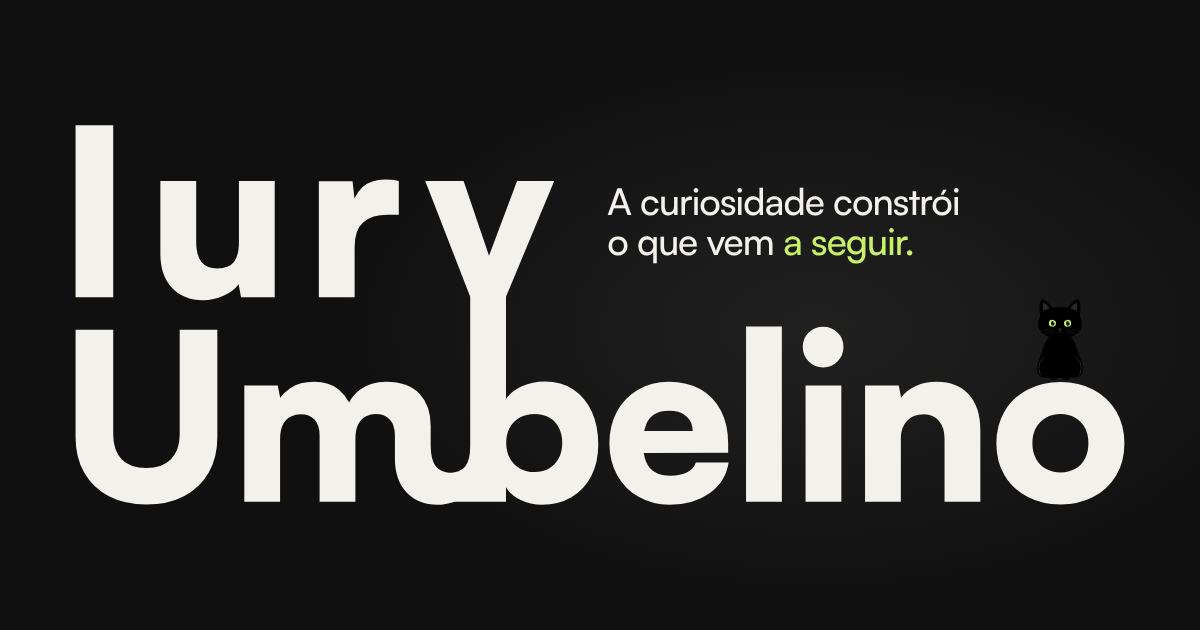
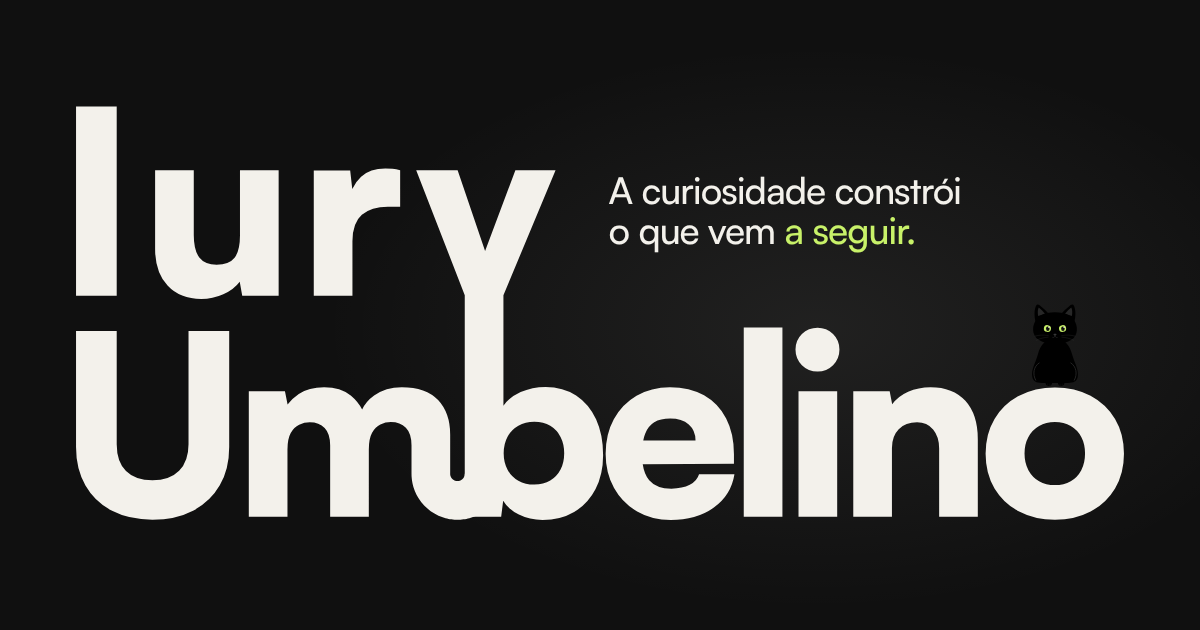
Hero: narrow half-ring from the m into the shared stem (original spacing), I at ascender height, selectable text layer over the mark
Claude-Session: https://claude.ai/code/session_01PGDuVFiiHY6UfqApSvCGWQ

diff --git a/src/components/hero/name-paths.ts b/src/components/hero/name-paths.ts
@@ -1,21 +1,21 @@
 // Generated by scripts/lettering.py — do not edit by hand.
-// Satoshi {'wght': 900.0}, line 880, tracking 73.9 / -14.0 (flush left); m→b +74.0 (u-turn gap 170.0); y cut at 2.23 (stem 154.0).
-export const viewBox = "53 0 4561.0 1681";
+// Satoshi {'wght': 900.0}, line 880, tracking 23.9 / -51.9 (flush left); y cut at 2.23 (stem 154.0).
+export const viewBox = "53 0 4221.55 1681";
 export const glyphs = [
   {
     "id": "l1-I",
     "line": 1,
-    "d": "M239.0 24.0V764.0H77.0V24.0Z"
+    "d": "M77.0 26.0V10.0H239.0V764.0H77.0V26.0Z"
   },
   {
     "id": "l1-u",
     "line": 1,
-    "d": "M779.8687133789062 264.0H933.8687133789062V764.0H788.8687133789062L778.8687133789062 708.0Q755.8687133789062 739.0 713.3687133789062 758.0Q670.8687133789062 777.0 625.8687133789062 777.0Q540.8687133789062 777.0 491.36871337890625 723.5Q441.86871337890625 670.0 441.86871337890625 578.0V264.0H595.8687133789062V522.0Q595.8687133789062 583.0 617.8687133789062 611.5Q639.8687133789062 640.0 686.8687133789062 640.0Q736.8687133789062 640.0 758.3687133789062 612.5Q779.8687133789062 585.0 779.8687133789062 524.0Z"
+    "d": "M729.9212646484375 264.0H883.9212646484375V764.0H738.9212646484375L728.9212646484375 708.0Q705.9212646484375 739.0 663.4212646484375 758.0Q620.9212646484375 777.0 575.9212646484375 777.0Q490.9212341308594 777.0 441.4212341308594 723.5Q391.9212341308594 670.0 391.9212341308594 578.0V264.0H545.9212646484375V522.0Q545.9212646484375 583.0 567.9212646484375 611.5Q589.9212646484375 640.0 636.9212646484375 640.0Q686.9212646484375 640.0 708.4212646484375 612.5Q729.9212646484375 585.0 729.9212646484375 524.0Z"
   },
   {
     "id": "l1-r",
     "line": 1,
-    "d": "M1467.7374267578125 264.0V409.0H1418.7374267578125Q1352.7374267578125 409.0 1315.2374267578125 441.0Q1277.7374267578125 473.0 1277.7374267578125 547.0V764.0H1123.7374267578125V265.0H1268.7374267578125L1277.01318359375 338.79248046875Q1289.3045654296875 310.494873046875 1312.2374267578125 289.5Q1347.7374267578125 257.0 1408.7374267578125 257.0Q1422.7374267578125 257.0 1437.2374267578125 258.5Q1451.7374267578125 260.0 1467.7374267578125 264.0Z"
+    "d": "M1367.842529296875 264.0V409.0H1318.842529296875Q1252.842529296875 409.0 1215.342529296875 441.0Q1177.842529296875 473.0 1177.842529296875 547.0V764.0H1023.8424682617188V265.0H1168.842529296875L1177.1182861328125 338.79248046875Q1189.40966796875 310.494873046875 1212.342529296875 289.5Q1247.842529296875 257.0 1308.842529296875 257.0Q1322.842529296875 257.0 1337.342529296875 258.5Q1351.842529296875 260.0 1367.842529296875 264.0Z"
   },
   {
     "id": "l2-U",
@@ -25,35 +25,37 @@ export const glyphs = [
   {
     "id": "l2-m",
     "line": 2,
-    "d": "M957.0 1644.0H803.0V1144.0H947.0L957.4033813476562 1196.62890625Q973.1224365234375 1174.9921875 1002.0 1155.0Q1041.0 1128.0 1103.0 1128.0Q1169.0 1128.0 1209.0 1161.0Q1236.8109130859375 1183.944091796875 1254.470458984375 1216.556396484375Q1270.0172119140625 1183.9442138671875 1302.0 1161.0Q1348.0 1128.0 1412.0 1128.0Q1509.0 1128.0 1557.0 1179.5Q1605.0 1231.0 1605.0 1317.0V1402.0Q1605.0 1463.0 1627.0 1491.5Q1649.0 1520.0 1696.0 1520.0Q1719.7021484375 1520.0 1737.0 1513.8201904296875V1630.8624267578125Q1730.058837890625 1634.6207275390625 1722.5 1638.0Q1680.0 1657.0 1635.0 1657.0Q1550.0 1657.0 1500.5 1603.5Q1451.0 1550.0 1451.0 1458.0V1360.0Q1451.0 1313.0 1428.5 1290.0Q1406.0 1267.0 1369.0 1267.0Q1347.0 1267.0 1327.0 1276.5Q1307.0 1286.0 1294.0 1309.5Q1281.0 1333.0 1281.0 1376.0V1644.0H1127.0V1360.0Q1127.0 1313.0 1105.0 1290.5Q1083.0 1268.0 1046.0 1268.0Q1024.0 1268.0 1003.5 1277.5Q983.0 1287.0 970.0 1310.5Q957.0 1334.0 957.0 1376.0Z"
+    "d": "M919.0787353515625 1644.0H765.0787353515625V1144.0H909.0787353515625L919.4821166992188 1196.62890625Q935.201171875 1174.9921875 964.0787353515625 1155.0Q1003.0787353515625 1128.0 1065.0787353515625 1128.0Q1131.0787353515625 1128.0 1171.0787353515625 1161.0Q1198.8896484375 1183.944091796875 1216.5491943359375 1216.556396484375Q1232.095947265625 1183.9442138671875 1264.0787353515625 1161.0Q1310.0787353515625 1128.0 1374.0787353515625 1128.0Q1471.0787353515625 1128.0 1519.0787353515625 1179.5Q1567.0787353515625 1231.0 1567.0787353515625 1317.0V1472.9605712890625L1567.0943603515625 1473.9107666015625L1567.1409912109375 1474.85986328125L1567.2186279296875 1475.8070068359375L1567.3271484375 1476.7509765625L1567.4666748046875 1477.6910400390625L1567.63671875 1478.6259765625L1567.83740234375 1479.5548095703125L1568.0682373046875 1480.4765625L1568.3292236328125 1481.3902587890625L1568.619873046875 1482.2950439453125L1568.9400634765625 1483.189697265625L1569.289306640625 1484.073486328125L1569.667236328125 1484.9454345703125L1570.073486328125 1485.804443359375L1570.5076904296875 1486.649658203125L1570.9693603515625 1487.4803466796875L1571.4578857421875 1488.29541015625L1571.9727783203125 1489.093994140625L1572.5135498046875 1489.8753662109375L1573.0797119140625 1490.638671875L1573.67041015625 1491.383056640625L1574.28515625 1492.107666015625L1574.92333984375 1492.811767578125L1575.584228515625 1493.4945068359375L1576.26708984375 1494.1553955078125L1576.97119140625 1494.7935791015625L1577.69580078125 1495.4083251953125L1578.4400634765625 1495.9991455078125L1579.203369140625 1496.565185546875L1579.9847412109375 1497.10595703125L1580.7833251953125 1497.6209716796875L1581.5985107421875 1498.1094970703125L1582.4290771484375 1498.571044921875L1583.2744140625 1499.0052490234375L1584.1334228515625 1499.4114990234375L1585.0052490234375 1499.78955078125L1585.8890380859375 1500.1387939453125L1586.78369140625 1500.4588623046875L1587.6884765625 1500.7496337890625L1588.6021728515625 1501.010498046875L1589.5240478515625 1501.241455078125L1590.452880859375 1501.4420166015625L1591.3878173828125 1501.6121826171875L1592.3277587890625 1501.7515869140625L1593.2718505859375 1501.860107421875L1594.2188720703125 1501.9378662109375L1595.16796875 1501.9844970703125L1596.1181640625 1502.0L1597.0682373046875 1501.9844970703125L1598.0174560546875 1501.9378662109375L1598.9644775390625 1501.860107421875L1599.9085693359375 1501.7515869140625L1600.8485107421875 1501.6121826171875L1601.783447265625 1501.4420166015625L1602.7122802734375 1501.241455078125L1603.634033203125 1501.010498046875L1604.5478515625 1500.7496337890625L1605.4525146484375 1500.4588623046875L1606.3472900390625 1500.1387939453125L1607.2310791015625 1499.78955078125L1608.1029052734375 1499.4114990234375L1608.9619140625 1499.0052490234375L1609.8072509765625 1498.571044921875L1610.6378173828125 1498.1094970703125L1611.452880859375 1497.6209716796875L1612.2515869140625 1497.10595703125L1613.032958984375 1496.565185546875L1613.7962646484375 1495.9991455078125L1614.54052734375 1495.4083251953125L1615.26513671875 1494.7935791015625L1615.96923828125 1494.1553955078125L1616.652099609375 1493.4945068359375L1617.31298828125 1492.811767578125L1617.951171875 1492.107666015625L1618.56591796875 1491.383056640625L1619.1566162109375 1490.638671875L1619.72265625 1489.8753662109375L1620.2635498046875 1489.093994140625L1620.7784423828125 1488.29541015625L1621.2669677734375 1487.4803466796875L1621.7286376953125 1486.649658203125L1622.1627197265625 1485.804443359375L1622.569091796875 1484.9454345703125L1622.947021484375 1484.073486328125L1623.2962646484375 1483.189697265625L1623.616455078125 1482.2950439453125L1623.9071044921875 1481.3902587890625L1624.1680908203125 1480.4765625L1624.39892578125 1479.5548095703125L1624.5994873046875 1478.6259765625L1624.7696533203125 1477.6910400390625L1624.9090576171875 1476.7509765625L1625.0177001953125 1475.8070068359375L1625.0953369140625 1474.85986328125L1625.1419677734375 1473.9107666015625L1625.157470703125 1472.9605712890625H1779.157470703125L1779.0595703125 1478.949462890625L1778.765625 1484.9320068359375L1778.276123046875 1490.901611328125L1777.591552734375 1496.85205078125L1776.7127685546875 1502.77685546875L1775.6405029296875 1508.6697998046875L1774.3759765625 1514.5245361328125L1772.920654296875 1520.334716796875L1771.27587890625 1526.0941162109375L1769.443603515625 1531.7967529296875L1767.42578125 1537.436279296875L1765.2244873046875 1543.0067138671875L1762.842041015625 1548.502197265625L1760.2811279296875 1553.9168701171875L1757.54443359375 1559.2447509765625L1754.6348876953125 1564.4803466796875L1751.5555419921875 1569.6177978515625L1748.309814453125 1574.65185546875L1744.901123046875 1579.5770263671875L1741.3330078125 1584.387939453125L1737.6094970703125 1589.07958984375L1733.7344970703125 1593.6468505859375L1729.7120361328125 1598.0849609375L1725.5465087890625 1602.3890380859375L1721.242431640625 1606.554443359375L1716.804443359375 1610.576904296875L1712.237060546875 1614.4520263671875L1707.54541015625 1618.175537109375L1702.7344970703125 1621.7435302734375L1697.809326171875 1625.15234375L1692.775390625 1628.3980712890625L1687.6378173828125 1631.4774169921875L1682.40234375 1634.386962890625L1677.0743408203125 1637.1236572265625L1671.6597900390625 1639.6845703125L1666.164306640625 1642.0670166015625L1660.59375 1644.268310546875L1654.9542236328125 1646.2861328125L1649.251708984375 1648.118408203125L1643.4921875 1649.7630615234375L1637.6820068359375 1651.218505859375L1631.827392578125 1652.48291015625L1625.9344482421875 1653.55517578125L1620.009521484375 1654.43408203125L1614.0592041015625 1655.11865234375L1608.0894775390625 1655.608154296875L1602.1070556640625 1655.9019775390625L1596.1181640625 1656.0L1590.1292724609375 1655.9019775390625L1584.1468505859375 1655.608154296875L1578.1771240234375 1655.11865234375L1572.2266845703125 1654.43408203125L1566.3018798828125 1653.55517578125L1560.408935546875 1652.48291015625L1554.55419921875 1651.218505859375L1548.7440185546875 1649.7630615234375L1542.984619140625 1648.118408203125L1537.2821044921875 1646.2861328125L1531.642578125 1644.268310546875L1526.072021484375 1642.0670166015625L1520.5765380859375 1639.6845703125L1515.161865234375 1637.1236572265625L1509.833984375 1634.386962890625L1504.5985107421875 1631.4774169921875L1499.4609375 1628.3980712890625L1494.4268798828125 1625.15234375L1489.5018310546875 1621.7435302734375L1484.6907958984375 1618.175537109375L1479.9991455078125 1614.4520263671875L1475.431884765625 1610.576904296875L1470.993896484375 1606.554443359375L1466.6898193359375 1602.3890380859375L1462.5242919921875 1598.0849609375L1458.5018310546875 1593.6468505859375L1454.6268310546875 1589.07958984375L1450.9031982421875 1584.387939453125L1447.335205078125 1579.5770263671875L1443.926513671875 1574.65185546875L1440.6806640625 1569.6177978515625L1437.6014404296875 1564.4803466796875L1434.6917724609375 1559.2447509765625L1431.955078125 1553.9168701171875L1429.3941650390625 1548.502197265625L1427.0118408203125 1543.0067138671875L1424.810546875 1537.436279296875L1422.7926025390625 1531.7967529296875L1420.9603271484375 1526.0941162109375L1419.315673828125 1520.334716796875L1417.8603515625 1514.5245361328125L1416.5958251953125 1508.6697998046875L1415.5235595703125 1502.77685546875L1414.6446533203125 1496.85205078125L1413.960205078125 1490.901611328125L1413.470703125 1484.9320068359375L1413.1767578125 1478.949462890625L1413.1114501953125 1474.9605712890625H1413.0787353515625V1360.0Q1413.0787353515625 1313.0 1390.5787353515625 1290.0Q1368.0787353515625 1267.0 1331.0787353515625 1267.0Q1309.0787353515625 1267.0 1289.0787353515625 1276.5Q1269.0787353515625 1286.0 1256.0787353515625 1309.5Q1243.0787353515625 1333.0 1243.0787353515625 1376.0V1644.0H1089.0787353515625V1360.0Q1089.0787353515625 1313.0 1067.0787353515625 1290.5Q1045.0787353515625 1268.0 1008.0787353515625 1268.0Q986.0787353515625 1268.0 965.5787353515625 1277.5Q945.0787353515625 1287.0 932.0787353515625 1310.5Q919.0787353515625 1334.0 919.0787353515625 1376.0Z"
   },
   {
     "id": "l2-e",
     "line": 2,
-    "d": "M2633.0 1657.0Q2558.0 1657.0 2499.5 1623.0Q2441.0 1589.0 2407.5 1529.5Q2374.0 1470.0 2374.0 1393.0Q2374.0 1315.0 2406.5 1255.5Q2439.0 1196.0 2497.0 1162.0Q2555.0 1128.0 2630.0 1128.0Q2709.0 1128.0 2766.0 1160.5Q2823.0 1193.0 2854.0 1252.5Q2885.0 1312.0 2885.0 1394.0V1433.0L2521.70849609375 1434.689697265625Q2527.785888671875 1475.3272705078125 2547.5 1498.5Q2576.0 1532.0 2636.0 1532.0Q2680.0 1532.0 2709.0 1517.0Q2738.0 1502.0 2746.0 1475.0H2887.0Q2874.0 1558.0 2805.0 1607.5Q2736.0 1657.0 2633.0 1657.0ZM2523.803955078125 1340.0H2732.0Q2732.0 1300.0 2705.0 1276.5Q2678.0 1253.0 2631.0 1253.0Q2592.0 1253.0 2567.5 1268.0Q2543.0 1283.0 2531.0 1314.5Q2526.5927734375 1326.0692138671875 2523.803955078125 1340.0Z"
+    "d": "M2445.236328125 1657.0Q2370.236328125 1657.0 2311.736328125 1623.0Q2253.236328125 1589.0 2219.736328125 1529.5Q2186.236328125 1470.0 2186.236328125 1393.0Q2186.236328125 1315.0 2218.736328125 1255.5Q2251.236328125 1196.0 2309.236328125 1162.0Q2367.236328125 1128.0 2442.236328125 1128.0Q2521.236328125 1128.0 2578.236328125 1160.5Q2635.236328125 1193.0 2666.236328125 1252.5Q2697.236328125 1312.0 2697.236328125 1394.0V1433.0L2333.94482421875 1434.689697265625Q2340.022216796875 1475.3272705078125 2359.736328125 1498.5Q2388.236328125 1532.0 2448.236328125 1532.0Q2492.236328125 1532.0 2521.236328125 1517.0Q2550.236328125 1502.0 2558.236328125 1475.0H2699.236328125Q2686.236328125 1558.0 2617.236328125 1607.5Q2548.236328125 1657.0 2445.236328125 1657.0ZM2336.040283203125 1340.0H2544.236328125Q2544.236328125 1300.0 2517.236328125 1276.5Q2490.236328125 1253.0 2443.236328125 1253.0Q2404.236328125 1253.0 2379.736328125 1268.0Q2355.236328125 1283.0 2343.236328125 1314.5Q2338.8291015625 1326.0692138671875 2336.040283203125 1340.0Z"
   },
   {
     "id": "l2-l",
     "line": 2,
-    "d": "M3116.0 1644.0H2962.0V890.0H3116.0Z"
+    "d": "M2890.31494140625 1644.0H2736.31494140625V890.0H2890.31494140625Z"
   },
   {
     "id": "l2-i",
     "line": 2,
-    "d": "M3218.0 1644.0V1144.0H3372.0V1644.0ZM3294.0 1066.0Q3257.0 1066.0 3231.5 1040.5Q3206.0 1015.0 3206.0 978.0Q3206.0 941.0 3231.5 916.0Q3257.0 891.0 3294.0 891.0Q3330.0 891.0 3355.5 916.0Q3381.0 941.0 3381.0 978.0Q3381.0 1015.0 3355.5 1040.5Q3330.0 1066.0 3294.0 1066.0Z"
+    "d": "M2954.393798828125 1644.0V1144.0H3108.393798828125V1644.0ZM3030.393798828125 1066.0Q2993.393798828125 1066.0 2967.893798828125 1040.5Q2942.393798828125 1015.0 2942.393798828125 978.0Q2942.393798828125 941.0 2967.893798828125 916.0Q2993.393798828125 891.0 3030.393798828125 891.0Q3066.393798828125 891.0 3091.893798828125 916.0Q3117.393798828125 941.0 3117.393798828125 978.0Q3117.393798828125 1015.0 3091.893798828125 1040.5Q3066.393798828125 1066.0 3030.393798828125 1066.0Z"
   },
   {
     "id": "l2-n",
     "line": 2,
-    "d": "M3628.0 1644.0H3474.0V1144.0H3619.0L3629.0 1196.0Q3652.0 1164.0 3692.5 1146.0Q3733.0 1128.0 3782.0 1128.0Q3871.0 1128.0 3920.5 1182.5Q3970.0 1237.0 3970.0 1335.0V1644.0H3816.0V1372.0Q3816.0 1325.0 3792.0 1296.5Q3768.0 1268.0 3728.0 1268.0Q3682.0 1268.0 3655.0 1295.5Q3628.0 1323.0 3628.0 1370.0Z"
+    "d": "M3326.47265625 1644.0H3172.47265625V1144.0H3317.47265625L3327.47265625 1196.0Q3350.47265625 1164.0 3390.97265625 1146.0Q3431.47265625 1128.0 3480.47265625 1128.0Q3569.47265625 1128.0 3618.97265625 1182.5Q3668.47265625 1237.0 3668.47265625 1335.0V1644.0H3514.47265625V1372.0Q3514.47265625 1325.0 3490.47265625 1296.5Q3466.47265625 1268.0 3426.47265625 1268.0Q3380.47265625 1268.0 3353.47265625 1295.5Q3326.47265625 1323.0 3326.47265625 1370.0Z"
   },
   {
     "id": "l2-o",
     "line": 2,
-    "d": "M4039.0 1393.0Q4039.0 1314.0 4074.5 1254.5Q4110.0 1195.0 4172.5 1162.0Q4235.0 1129.0 4315.0 1129.0Q4395.0 1129.0 4457.0 1162.0Q4519.0 1195.0 4554.5 1254.5Q4590.0 1314.0 4590.0 1393.0Q4590.0 1472.0 4554.5 1531.0Q4519.0 1590.0 4457.0 1623.0Q4395.0 1656.0 4315.0 1656.0Q4235.0 1656.0 4172.5 1623.0Q4110.0 1590.0 4074.5 1531.0Q4039.0 1472.0 4039.0 1393.0ZM4194.0 1392.0Q4194.0 1430.0 4209.5 1458.5Q4225.0 1487.0 4252.0 1502.5Q4279.0 1518.0 4315.0 1518.0Q4351.0 1518.0 4378.0 1502.5Q4405.0 1487.0 4420.0 1458.5Q4435.0 1430.0 4435.0 1392.0Q4435.0 1354.0 4420.0 1326.0Q4405.0 1298.0 4378.0 1282.5Q4351.0 1267.0 4315.0 1267.0Q4279.0 1267.0 4252.0 1282.5Q4225.0 1298.0 4209.5 1326.0Q4194.0 1354.0 4194.0 1392.0Z"
+    "d": "M3699.55126953125 1393.0Q3699.55126953125 1314.0 3735.05126953125 1254.5Q3770.55126953125 1195.0 3833.05126953125 1162.0Q3895.55126953125 1129.0 3975.55126953125 1129.0Q4055.55126953125 1129.0 4117.55126953125 1162.0Q4179.55126953125 1195.0 4215.05126953125 1254.5Q4250.55126953125 1314.0 4250.55126953125 1393.0Q4250.55126953125 1472.0 4215.05126953125 1531.0Q4179.55126953125 1590.0 4117.55126953125 1623.0Q4055.55126953125 1656.0 3975.55126953125 1656.0Q3895.55126953125 1656.0 3833.05126953125 1623.0Q3770.55126953125 1590.0 3735.05126953125 1531.0Q3699.55126953125 1472.0 3699.55126953125 1393.0ZM3854.55126953125 1392.0Q3854.55126953125 1430.0 3870.05126953125 1458.5Q3885.55126953125 1487.0 3912.55126953125 1502.5Q3939.55126953125 1518.0 3975.55126953125 1518.0Q4011.55126953125 1518.0 4038.55126953125 1502.5Q4065.55126953125 1487.0 4080.55126953125 1458.5Q4095.55126953125 1430.0 4095.55126953125 1392.0Q4095.55126953125 1354.0 4080.55126953125 1326.0Q4065.55126953125 1298.0 4038.55126953125 1282.5Q4011.55126953125 1267.0 3975.55126953125 1267.0Q3939.55126953125 1267.0 3912.55126953125 1282.5Q3885.55126953125 1298.0 3870.05126953125 1326.0Q3854.55126953125 1354.0 3854.55126953125 1392.0Z"
   }
 ] as const;
-/** The y→b ligature: one outline, the y's V running into the b's stem, and the m's last leg turning into it along the bottom (a u). */
-export const ligature = {"id": "yb", "d": "M1746.606201171875 264.0 1855.9884033203125 585.4495849609375 1976.606201171875 264.0H2136.606201171875L1929.0018310546875 761.7600708007812V914.0L1929.0 1202.0Q1952.0 1168.0 1997.5 1147.5Q2043.0 1127.0 2097.0 1127.0Q2167.0 1127.0 2218.5 1161.0Q2270.0 1195.0 2298.0 1256.0Q2326.0 1317.0 2326.0 1399.0Q2326.0 1476.0 2295.5 1534.5Q2265.0 1593.0 2210.5 1625.0Q2156.0 1657.0 2085.0 1657.0Q2033.0 1657.0 1990.5 1635.5Q1949.0479736328125 1614.5301513671875 1929.0 1581.669189453125V1644.0H1693.73486328125Q1668.78955078125 1653.1318359375 1643.0 1655.8489990234375V1513.5732421875Q1659.681396484375 1520.0 1682.0 1520.0Q1732.0 1520.0 1753.5 1492.5Q1775.0 1465.0 1775.0 1404.0V914.0L1774.9981689453125 761.7599487304688L1581.606201171875 264.0ZM1930.0 1391.0Q1930.0 1428.0 1945.5 1456.5Q1961.0 1485.0 1988.5 1500.5Q2016.0 1516.0 2052.0 1516.0Q2089.0 1516.0 2115.5 1500.0Q2142.0 1484.0 2156.5 1456.0Q2171.0 1428.0 2171.0 1391.0Q2171.0 1354.0 2156.5 1326.0Q2142.0 1298.0 2115.5 1282.0Q2089.0 1266.0 2052.0 1266.0Q2016.0 1266.0 1988.5 1281.5Q1961.0 1297.0 1945.5 1325.0Q1930.0 1353.0 1930.0 1391.0Z"} as const;
+/** The y→b ligature: one outline, the y's V running into the b's stem (the m's half ring turns into it at the base). */
+export const ligature = {"id": "yb", "d": "M1596.763671875 264.0 1706.1458740234375 585.4495849609375 1826.763671875 264.0H1986.763671875L1779.159423828125 761.759765625V914.0H1779.157470703125V1202.0Q1802.157470703125 1168.0 1847.657470703125 1147.5Q1893.157470703125 1127.0 1947.157470703125 1127.0Q2017.157470703125 1127.0 2068.657470703125 1161.0Q2120.157470703125 1195.0 2148.157470703125 1256.0Q2176.157470703125 1317.0 2176.157470703125 1399.0Q2176.157470703125 1476.0 2145.657470703125 1534.5Q2115.157470703125 1593.0 2060.657470703125 1625.0Q2006.157470703125 1657.0 1935.157470703125 1657.0Q1883.157470703125 1657.0 1840.657470703125 1635.5Q1798.157470703125 1614.0 1778.157470703125 1580.0L1770.157470703125 1644.0H1625.157470703125V914.0H1625.15576171875V761.76025390625L1431.763671875 264.0ZM1780.157470703125 1391.0Q1780.157470703125 1428.0 1795.657470703125 1456.5Q1811.157470703125 1485.0 1838.657470703125 1500.5Q1866.157470703125 1516.0 1902.157470703125 1516.0Q1939.157470703125 1516.0 1965.657470703125 1500.0Q1992.157470703125 1484.0 2006.657470703125 1456.0Q2021.157470703125 1428.0 2021.157470703125 1391.0Q2021.157470703125 1354.0 2006.657470703125 1326.0Q1992.157470703125 1298.0 1965.657470703125 1282.0Q1939.157470703125 1266.0 1902.157470703125 1266.0Q1866.157470703125 1266.0 1838.657470703125 1281.5Q1811.157470703125 1297.0 1795.657470703125 1325.0Q1780.157470703125 1353.0 1780.157470703125 1391.0Z"} as const;
 /** Positions in % of the mark (x of width, y of height). */
-export const anchors = {"line1Right": 45.68, "xHeight1": 15.7, "oCenter": 93.43, "oRight": 99.47, "oTop": 67.16, "nCenter": 80.44, "stem": [37.75, 41.13]} as const;
+export const anchors = {"line1Right": 45.81, "xHeight1": 15.7, "oCenter": 92.91, "oRight": 99.43, "oTop": 67.16, "nCenter": 79.77, "stem": [37.24, 40.89]} as const;
+/** The selectable text layer: font size in % of the mark's width, each line's box (line-height 1) in %. */
+export const textLayer = {"fontSize": 23.688, "lines": [{"text": "Iury", "left": -1.26, "top": -7.2, "tracking": 0.0239}, {"text": "Umbelino", "left": -1.14, "top": 45.15, "tracking": -0.0519}]} as const;

diff --git a/src/components/sections/Hero.tsx b/src/components/sections/Hero.tsx
@@ -5,7 +5,7 @@ import { HeroPortrait, HeroSocial } from "@/components/hero/HeroPortrait";
 import { HeroSpotlight } from "@/components/hero/HeroSpotlight";
 import { NameMark } from "@/components/hero/NameMark";
 import type { Locale } from "@/i18n/routing";
-import { anchors, viewBox } from "@/components/hero/name-paths";
+import { anchors, textLayer, viewBox } from "@/components/hero/name-paths";
 import { HeroMotion } from "./HeroMotion";
 
 /**
@@ -64,9 +64,30 @@ export async function Hero() {
         <div style={markVars} className="flex w-full flex-1 flex-col gap-12 md:mx-auto md:w-[clamp(50%,calc((100svh-24rem)*var(--mark-ratio)),100%)] md:gap-10">
         <div className="flex flex-col gap-5 md:flex-1 md:justify-center">
           <div data-hero-mark className="@container relative w-full">
-            <h1 id="hero-name" className="text-paper">
-              <span className="sr-only">Iury Umbelino</span>
-              <NameMark className="block h-auto w-full" />
+            {/*
+              The drawn mark is decoration (aria-hidden, no pointer); the h1's real
+              text lies over it, transparent but selectable, each line set where the
+              drawing puts it (textLayer, exported by scripts/lettering.py). Dragging
+              across the name selects and copies "Iury Umbelino"; screen readers and
+              search engines read the same text.
+            */}
+            <h1 id="hero-name" className="relative text-paper">
+              <NameMark className="pointer-events-none block h-auto w-full select-none" />
+              <span
+                className="absolute inset-0 font-display leading-none font-black whitespace-pre text-transparent select-text selection:bg-signal/30 selection:text-transparent"
+                style={{ fontSize: `${textLayer.fontSize}cqw` }}
+              >
+                {textLayer.lines.map((l, i) => (
+                  <span
+                    key={l.text}
+                    className="absolute block"
+                    style={{ left: `${l.left}%`, top: `${l.top}%`, letterSpacing: `${l.tracking}em` }}
+                  >
+                    {l.text}
+                    {i === 0 ? " " : null}
+                  </span>
+                ))}
+              </span>
             </h1>
             {/*
               Mobile: the statement is its own row under the name, with the cat at the

diff --git a/scripts/lettering.py b/scripts/lettering.py
@@ -8,8 +8,14 @@ exactly as wide as the b's stem (found by bisection on the outline, just under
 the baseline); from that cut a vertical stem of the same width runs straight
 down onto the b's stem axis. y-top ∪ stem ∪ b is one outline (boolean union),
 so there is no seam, step or double edge, and the y still reads as a y: a Y-like
-fork whose foot is the b. At the bottom, the m's last leg turns along the baseline
-like a u and rises into that stem (Satoshi's own u, cut in two; see "u-turn").
+fork whose foot is the b.
+
+At the bottom (Iury's reference, 2026-11-13) the m's last leg does not stop at the
+baseline: it turns in a half ring (the leg's own width all the way round) and rises
+into that same stem, leaving a narrow slit with a round bottom between them. The
+spacing is the font's: the slit is the gap the m and the b already have. The b is
+untouched, so its stem meets its bowl with Satoshi's own fine notch at the base.
+The I is raised to the ascender height (the l, the b and the i's dot).
 
 The license (ITF Free Font License) allows wordmarks made with the font; the
 font file itself is never modified or committed: this script reads it in place
@@ -50,16 +56,13 @@ hbfont = hb.Font(hb.Face(hb.Blob.from_file_path(str(SRC))))
 hbfont.set_variations(AXES)
 
 
-def shape(text, track=TRACK, kern=None):
-    """Glyph names and pen x positions. `kern` = (index, units): extra space before that glyph."""
+def shape(text, track=TRACK):
     buf = hb.Buffer()
     buf.add_str(text)
     buf.guess_segment_properties()
     hb.shape(hbfont, buf, {"kern": True, "liga": False})
     x, out = 0, []
-    for i, (info, pos) in enumerate(zip(buf.glyph_infos, buf.glyph_positions)):
-        if kern and i == kern[0]:
-            x += kern[1]
+    for info, pos in zip(buf.glyph_infos, buf.glyph_positions):
         out.append((font.getGlyphName(info.codepoint), x + pos.x_offset))
         x += pos.x_advance + track
     return out
@@ -122,53 +125,22 @@ Y_AXIS = (CUT_L + CUT_R) / 2
 # Line 2 shifts so the b stem sits on the y's axis.
 shift = (y_x + Y_AXIS) - (b_x + (B_STEM[0] + B_STEM[1]) / 2)
 
-# The u-turn (Iury, 2026-11-13, after his reference): the m's last leg does not
-# stop at the baseline; it turns along the bottom like a "u" and rises into the
-# shared stem. The connector is Satoshi's own u, cut in two at its centre: the
-# left half sits on the m's leg, the right half on the b's stem (the u's stems are
-# exactly as wide as both). For the bowl not to look pinched, the gap between the
-# m's leg and the stem is opened to TURN_GAP (default: the m's own counters).
-m = cmap[ord("m")]
-u = cmap[ord("u")]
-M_LEG = span_at(m, 250, bounds(m)[2] - 40)  # the m's right leg
-U_L = span_at(u, 250, bounds(u)[0] + 40)  # the u's left stem
-U_R = span_at(u, 250, bounds(u)[2] - 40)  # the u's right stem
-M_COUNTER = M_LEG[0] - span_at(m, 250, (bounds(m)[0] + bounds(m)[2]) / 2)[1]
-TURN_GAP = float(os.environ.get("TURN_GAP", M_COUNTER))
-assert abs((M_LEG[1] - M_LEG[0]) - B_W) < 1 and abs((U_L[1] - U_L[0]) - B_W) < 1, (M_LEG, U_L, B_W)
-
-# Flush left: the stem alignment (and the opened m→b gap) push "Umbelino" left of
-# "Iury" (D units). Close it in the spacing, split between the lines so neither
-# looks re-tracked on its own: line 1 opens (3 gaps before the y), line 2 tightens
-# (2 gaps before the b). Each unit of line-1 tracking moves the U right by 3, each
-# unit removed from line 2 by 2. The kern and the tracking depend on each other,
-# so they are solved together (a few fixed-point rounds).
-SPLIT = float(os.environ.get("ALIGN_SPLIT", 1.0))  # share of D taken by line 1 (1.0: all of it, as in Iury's reference)
+# Flush left: the stem alignment pushes "Umbelino" left of "Iury" (D units).
+# Close the gap in the spacing, split between the lines so neither looks
+# re-tracked on its own: line 1 opens (3 gaps before the y), line 2 tightens
+# (2 gaps before the b). Each unit of line-1 tracking moves the U right by 3,
+# each unit removed from line 2 by 2.
+SPLIT = float(os.environ.get("ALIGN_SPLIT", 0.6))  # share of D taken by line 1
 left = lambda line, dx=0: line[0][1] + dx + bounds(line[0][0])[0]
-TRACK1 = TRACK2 = TRACK
-K = 0.0
-for _ in range(40):
-    line1 = shape("Iury", TRACK1)
-    line2 = shape("Umbelino", TRACK2, (2, K))
-    _, y_x = line1[3]
-    _, m_x = line2[1]
-    _, b_x = line2[2]
-    gap = (b_x + B_STEM[0]) - (m_x + M_LEG[1])
-    K += TURN_GAP - gap
-    line2 = shape("Umbelino", TRACK2, (2, K))
-    _, b_x = line2[2]
-    shift = (y_x + Y_AXIS) - (b_x + (B_STEM[0] + B_STEM[1]) / 2)
-    D = left(line1) - left(line2, shift)
-    TRACK1 += SPLIT * D / 3
-    TRACK2 -= (1 - SPLIT) * D / 2
+D = left(line1) - left(line2, shift)
+TRACK1 = TRACK + SPLIT * D / 3
+TRACK2 = TRACK - (1 - SPLIT) * D / 2
 line1 = shape("Iury", TRACK1)
-line2 = shape("Umbelino", TRACK2, (2, K))
+line2 = shape("Umbelino", TRACK2)
 _, y_x = line1[3]
-_, m_x = line2[1]
 _, b_x = line2[2]
 shift = (y_x + Y_AXIS) - (b_x + (B_STEM[0] + B_STEM[1]) / 2)
 assert abs(left(line1) - left(line2, shift)) < 0.5, (left(line1), left(line2, shift))
-assert abs((b_x + B_STEM[0]) - (m_x + M_LEG[1]) - TURN_GAP) < 0.5
 
 asc = max(bounds(cmap[ord(c)])[3] for c in "Iury")
 A = asc + PAD  # line 1 baseline (SVG y)
@@ -191,14 +163,6 @@ def path(name, dx, base):
     return to_svg(pathops.simplify(p))
 
 
-glyphs = []
-for ch, (name, x) in zip("Iury", line1):
-    if ch != "y":
-        glyphs.append({"id": f"l1-{ch}", "line": 1, "d": path(name, x, A)})
-TURN_H = 260  # font units: below this, the m's leg and the b's stem become the u-turn
-TURN_OVER = 24  # the u reaches this far up into the leg / stem (no seam)
-
-
 def rect(x0, x1, y0, y1, T):
     """A rectangle given in font units, through the transform T."""
     r = pathops.Path()
@@ -207,40 +171,62 @@ def rect(x0, x1, y0, y1, T):
     return r
 
 
-U_MID = (U_L[1] + U_R[0]) / 2  # centre of the u's counter
-# Bottom of the u's counter (the inner edge of its bowl), on the counter's centre line.
-_g = pathops.Path()
-gs[u].draw(_g.getPen())
-_col = pathops.Path()
-_cp = _col.getPen()
-_cp.moveTo((U_MID - 0.01, -500)); _cp.lineTo((U_MID + 0.01, -500)); _cp.lineTo((U_MID + 0.01, 1500)); _cp.lineTo((U_MID - 0.01, 1500)); _cp.closePath()
-U_INNER = min(c.bounds[3] for c in pathops.op(_g, _col, pathops.PathOp.INTERSECTION).contours)
+def half_ring(cx, cy, r_in, r_out, T, steps=96):
+    """The lower half of a ring (font units, y up), through T."""
+    import math
+
+    pts = [(cx + r_out * math.cos(math.pi + math.pi * i / steps), cy + r_out * math.sin(math.pi + math.pi * i / steps)) for i in range(steps + 1)]
+    pts += [(cx + r_in * math.cos(-math.pi * i / steps), cy + r_in * math.sin(-math.pi * i / steps)) for i in range(steps + 1)]
+    r = pathops.Path()
+    pen = TransformPen(r.getPen(), T)
+    pen.moveTo(pts[0])
+    for pt in pts[1:]:
+        pen.lineTo(pt)
+    pen.closePath()
+    return r
 
 
-def u_half(side, dx):
-    """One half of the u, cut at its counter's centre (with an overlap), placed at dx.
+ASC = bounds(cmap[ord("l")])[3]  # ascender: the l, the b, the i's dot
+m = cmap[ord("m")]
+M_LEG = span_at(m, 250, bounds(m)[2] - 40)  # the m's right leg
+assert abs((M_LEG[1] - M_LEG[0]) - B_W) < 1, (M_LEG, B_W)
+OVERSHOOT = -bounds(cmap[ord("u")])[1]  # round bottoms dip this far under the baseline
 
-    The right half also loses the notch Satoshi's u has where its bowl meets the
-    right stem: the area under the bowl, from the centre to the stem, is filled up
-    to the counter's bottom, so the bowl runs into the stem without a step."""
-    Tu = (1, 0, 0, -1, dx, B)
-    pu = pathops.Path()
-    gs[u].draw(TransformPen(pu.getPen(), Tu))
-    x0, x1 = (-500, U_MID + 40) if side == "left" else (U_MID - 40, 1500)
-    half = pathops.op(pu, rect(x0, x1, -200, TURN_H + TURN_OVER, Tu), pathops.PathOp.INTERSECTION)
-    if side == "right":
-        half = pathops.op(half, rect(U_MID, U_R[0] + 60, 0, U_INNER - 1, Tu), pathops.PathOp.UNION)
-    return half
-
+glyphs = []
+for ch, (name, x) in zip("Iury", line1):
+    if ch == "I":
+        # Satoshi's I is a plain bar, 14 units under the ascender: raise its top.
+        x0, _, x1, top = bounds(name)
+        T1 = (1, 0, 0, -1, x, A)
+        bar = pathops.Path()
+        gs[name].draw(TransformPen(bar.getPen(), T1))
+        bar = pathops.op(bar, rect(x0, x1, top - 2, ASC, T1), pathops.PathOp.UNION)
+        glyphs.append({"id": "l1-I", "line": 1, "d": to_svg(pathops.simplify(bar))})
+    elif ch != "y":
+        glyphs.append({"id": f"l1-{ch}", "line": 1, "d": path(name, x, A)})
+# The turn, in line-2 coordinates: the slit is the gap the font already leaves
+# between the m's leg and the b's stem; the ring's centre line runs through the
+# middle of both, so its width is the stem's all the way round.
+_, m_x = line2[1]
+LEG_L = m_x + shift + M_LEG[0]
+STEM_L = b_x + shift + B_STEM[0]
+GAP = STEM_L - (LEG_L + B_W)
+R_IN = GAP / 2
+R_OUT = R_IN + B_W
+TURN_CX = LEG_L + B_W + R_IN
+TURN_CY = R_OUT - OVERSHOOT  # the ring's bottom dips like any round letter
+assert GAP > 20, GAP
 
 for ch, (name, x) in zip("Umbelino", line2):
     if ch == "m":
-        # The m keeps the u's left half: its last leg turns along the bottom.
-        Tm = (1, 0, 0, -1, x + shift, B)
+        Tm = (1, 0, 0, -1, 0, B)  # line-2 x already applied below
         pm = pathops.Path()
-        gs[name].draw(TransformPen(pm.getPen(), Tm))
-        pm = pathops.op(pm, rect(M_LEG[0] - 1, M_LEG[1] + 1, -200, TURN_H, Tm), pathops.PathOp.DIFFERENCE)
-        pm = pathops.op(pm, u_half("left", x + shift + M_LEG[0] - U_L[0]), pathops.PathOp.UNION)
+        gs[name].draw(TransformPen(pm.getPen(), (1, 0, 0, -1, x + shift, B)))
+        # The leg stops where the ring starts; the ring (and 1 unit of overlap) takes over.
+        pm = pathops.op(pm, rect(LEG_L - 1, LEG_L + B_W + 1, -200, TURN_CY, Tm), pathops.PathOp.DIFFERENCE)
+        ring = half_ring(TURN_CX, TURN_CY + 1, R_IN, R_OUT, Tm)
+        ring = pathops.op(ring, rect(LEG_L, LEG_L + B_W, TURN_CY - 1, TURN_CY + 2, Tm), pathops.PathOp.UNION)
+        pm = pathops.op(pm, ring, pathops.PathOp.UNION)
         glyphs.append({"id": "l2-m", "line": 2, "d": to_svg(pathops.simplify(pm))})
     elif ch != "b":
         glyphs.append({"id": f"l2-{ch}", "line": 2, "d": path(name, x + shift, B)})
@@ -257,14 +243,9 @@ depth = -(LINE - b_top) - OVERLAP  # font units below line 1's baseline
 stem = pathops.Path()
 sp = TransformPen(stem.getPen(), T)
 sp.moveTo((CUT_L, depth)); sp.lineTo((CUT_R, depth)); sp.lineTo((CUT_R, CUT + 2)); sp.lineTo((CUT_L, CUT + 2)); sp.closePath()
-Tb = (1, 0, 0, -1, b_x + shift, B)
 pb = pathops.Path()
-gs[b].draw(TransformPen(pb.getPen(), Tb))
-# The b loses the foot of its stem (only the stem: cutting into the bowl leaves a
-# sliver); the u's right half takes its place.
-pb = pathops.op(pb, rect(B_STEM[0] - 1, B_STEM[1], -200, TURN_H, Tb), pathops.PathOp.DIFFERENCE)
-turn = u_half("right", b_x + shift + B_STEM[0] - U_R[0])
-yb = pathops.op(pathops.op(pathops.op(ytop, stem, pathops.PathOp.UNION), pb, pathops.PathOp.UNION), turn, pathops.PathOp.UNION)
+gs[b].draw(TransformPen(pb.getPen(), (1, 0, 0, -1, b_x + shift, B)))
+yb = pathops.op(pathops.op(ytop, stem, pathops.PathOp.UNION), pb, pathops.PathOp.UNION)
 ligature = {"id": "yb", "d": to_svg(yb)}
 
 xs = []
@@ -294,15 +275,31 @@ anchors = {
     "stem": [pct_x(y_x + CUT_L), pct_x(y_x + CUT_R)],
 }
 
+# Invisible, selectable text over the mark (the h1's real text): where each line's
+# box sits when set in the same face at line-height 1. The baseline then lies
+# `asc + (1000 - asc - desc) / 2` units under the box top (hhea metrics).
+hhea = font["hhea"]
+UPM = font["head"].unitsPerEm
+BASE_IN_BOX = hhea.ascent + (UPM - hhea.ascent + hhea.descent) / 2
+text_layer = {
+    "fontSize": round(UPM / W * 100, 4),  # % of the mark's width (cqw)
+    "lines": [
+        {"text": "Iury", "left": pct_x(line1[0][1]), "top": pct_y(A - BASE_IN_BOX), "tracking": round(TRACK1 / UPM, 4)},
+        {"text": "Umbelino", "left": pct_x(line2[0][1] + shift), "top": pct_y(B - BASE_IN_BOX), "tracking": round(TRACK2 / UPM, 4)},
+    ],
+}
+
 OUT.parent.mkdir(parents=True, exist_ok=True)
 OUT.write_text(
     "// Generated by scripts/lettering.py — do not edit by hand.\n"
-    f"// Satoshi {AXES}, line {LINE}, tracking {round(TRACK1, 1)} / {round(TRACK2, 1)} (flush left); m→b +{round(K, 1)} (u-turn gap {round(TURN_GAP, 1)}); y cut at {CUT} (stem {round(B_W, 1)}).\n"
+    f"// Satoshi {AXES}, line {LINE}, tracking {round(TRACK1, 1)} / {round(TRACK2, 1)} (flush left); y cut at {CUT} (stem {round(B_W, 1)}).\n"
     f"export const viewBox = {json.dumps(' '.join(str(v) for v in view))};\n"
     f"export const glyphs = {json.dumps(glyphs, indent=2)} as const;\n"
-    f"/** The y→b ligature: one outline, the y's V running into the b's stem, and the m's last leg turning into it along the bottom (a u). */\n"
+    f"/** The y→b ligature: one outline, the y's V running into the b's stem (the m's half ring turns into it at the base). */\n"
     f"export const ligature = {json.dumps(ligature)} as const;\n"
     f"/** Positions in % of the mark (x of width, y of height). */\n"
     f"export const anchors = {json.dumps(anchors)} as const;\n"
+    f"/** The selectable text layer: font size in % of the mark's width, each line's box (line-height 1) in %. */\n"
+    f"export const textLayer = {json.dumps(text_layer)} as const;\n"
 )
 print("viewBox", view, "shift", round(shift, 1), "b stem", B_STEM, "cut", CUT, (round(CUT_L, 1), round(CUT_R, 1)), "anchors", anchors)

diff --git a/CLAUDE.md b/CLAUDE.md
@@ -81,7 +81,7 @@ One character. `CatFigure` (SVG, `data-cat` parts) is the only drawing; `CatObse
 **R3 motion system:** every move is a clip in `src/components/cat/clips.ts` (stretch, walk, run, crouch, airborne, falling, grab, land, settle, wake, greet, tailFlick): pure functions returning GSAP timelines on the `data-cat` parts (incl. the two front legs). In the hero, `CatObserver` scrubs stretch → walk left over the "n" → turn → run to the edge of the "o" → crouch (0–48% of the hero; reverses on scroll back). `CatAssistant` owns the FSM: observer → jump (crouch, airborne, apex clamped under the nav, falling, grab on the rail / land in the dock) → cling → sleep (on the rail: lets go, falls, lands, curls; bounded breathing) → waking (wake + stretch, then `WOKE`) → cling; any awake/asleep state → awaken (the scripted assistant) → sleep. An OPEN during the leap waits for the landing. At Contact the awake cat greets once (wave + the "Ask the cat" hint). The hero counts as left at 50% (`HERO_LEFT_AT`).
 
 ## Hero, copy and cursor (Redesign R2)
-- **Hero:** the h1 is `<NameMark>`: "Iury / Umbelino" lettered as SVG paths by `scripts/lettering.py` (Satoshi read at wght 900 without instancing, kerning via HarfBuzz, every glyph run through a pathops union) into `src/components/hero/name-paths.ts` (generated, never hand-edit). The y and the b are one outline (`ligature`): Satoshi's y is a V; it is cut where its cross-section equals the b stem width (found by bisection), and a vertical stem of that width runs straight down onto the b's stem axis, so the y reads as a Y-like fork whose foot is the b. y = why, b = build. **u-turn (Iury's reference, 2026-11-13):** the m's last leg does not stop at the baseline: it turns along the bottom like a u and rises into the shared stem. The turn is Satoshi's own u cut at its counter's centre (its stems are exactly as wide as the m's leg and the b's stem): the left half joins the m glyph, the right half joins the ligature, the notch where Satoshi's u bowl meets its stem is filled, and the m's leg / b's stem lose their feet below `TURN_H`. The m→b gap is opened (`K`, solved with the tracking) so the u's counter equals the m's counters (`TURN_GAP`); flush left is kept by opening line 1 only (`ALIGN_SPLIT` 1.0: tracking 73.9 / −14, i.e. "Umbelino" keeps the font's spacing). The viewBox includes every descender and nothing masks the mark. Desktop placement uses the script's `anchors` (% of the mark). Desktop: the name and the intro share one column as wide as the mark, centred horizontally, the name centred vertically above the intro; line 1 and line 2 are flush left (the script splits the gap between the two lines' tracking, `ALIGN_SPLIT`). The name comes first on every width, the positioning line and two links under it ("Conheça a pessoa" → #about, "Fale comigo" → #contact) (no edition line, no index rule). Bottom-right of the first screen (Iury, 2026-11-13): `HeroPortrait` (the real portrait, B&W `grayscale contrast-110`, colour + 1px signal ring + 4px lift on hover; radius 1rem, the second exception to radius 0; links to #about with `tabIndex=-1`, since "Conheça a pessoa" is the keyboard path) and `HeroSocial` (outline icons inlined, no icon library; LinkedIn, GitHub, Instagram and e-mail from `contacts`; opacity 60 → signal on hover). Desktop: the four icons in a column as tall as the photo, spread along it, left of it; the photo's bottom meets the links' underline (`--link-inset`, 10px: the 44px link box reaches below the text; measured within 2px at 1024/1440/1920) and the hero still fits 100svh. Mobile: name → statement → photo (96px) → intro → icons in a row. Behind it all, `HeroSpotlight` (fine pointer + motion only): a soft light under the pointer that reveals a fine dot grid only inside it (Iury, 2026-11-13; the one grid allowed, as atmosphere, never as structure). One 560px layer moved by transform, the dots held still by the opposite background-position; one rAF per pointer move, no loop (4× CPU: steady 30 fps, no frame > 50 ms). The statement is Satoshi 500 (not italic); mobile (< 768px) puts it under the name, left-aligned, with the cat at the row's end, and it does not fade there. Glyphs rise and the ligature draws (clip rect height) only under `.js` + motion, with the 3s failsafe. Share images: `node scripts/og.cjs` → `public/og-image-{pt,en}.png` after a lettering or copy change.
+- **Hero:** the h1 is `<NameMark>`: "Iury / Umbelino" lettered as SVG paths by `scripts/lettering.py` (Satoshi read at wght 900 without instancing, kerning via HarfBuzz, every glyph run through a pathops union) into `src/components/hero/name-paths.ts` (generated, never hand-edit). The y and the b are one outline (`ligature`): Satoshi's y is a V; it is cut where its cross-section equals the b stem width (found by bisection), and a vertical stem of that width runs straight down onto the b's stem axis, so the y reads as a Y-like fork whose foot is the b. y = why, b = build. **u-turn (Iury's reference, 2026-11-13; second pass):** the m's last leg does not stop at the baseline: it turns in a half ring (the stem's width all the way round) and rises into the shared stem, leaving a narrow slit with a round bottom. The slit is the gap the font already leaves between the m and the b (no spacing change: tracking 23.9 / −51.9); the ring's bottom dips by the round-letter overshoot; it belongs to the m glyph and overlaps the stem. The b is untouched, so its stem meets the bowl with Satoshi's own fine notch at the base. A first pass that widened the gap (Satoshi's u, re-spaced lines) read as a stretched y and was dropped. The I is raised 14 units to the ascender (the l, the b and the i's dot). U and m stay separate, as in the reference. **Text layer:** the h1 holds the real text over the drawing (`textLayer`, exported by the script: font size in cqw of the mark, each line's box at line-height 1 from the hhea metrics, per-line tracking), transparent, `select-text`, `whitespace-pre` (keeps the space, so a drag copies "Iury Umbelino"), `selection:bg-signal/30`; the SVG is `aria-hidden`, `pointer-events-none`, `select-none`. The viewBox includes every descender and nothing masks the mark. Desktop placement uses the script's `anchors` (% of the mark). Desktop: the name and the intro share one column as wide as the mark, centred horizontally, the name centred vertically above the intro; line 1 and line 2 are flush left (the script splits the gap between the two lines' tracking, `ALIGN_SPLIT`). The name comes first on every width, the positioning line and two links under it ("Conheça a pessoa" → #about, "Fale comigo" → #contact) (no edition line, no index rule). Bottom-right of the first screen (Iury, 2026-11-13): `HeroPortrait` (the real portrait, B&W `grayscale contrast-110`, colour + 1px signal ring + 4px lift on hover; radius 1rem, the second exception to radius 0; links to #about with `tabIndex=-1`, since "Conheça a pessoa" is the keyboard path) and `HeroSocial` (outline icons inlined, no icon library; LinkedIn, GitHub, Instagram and e-mail from `contacts`; opacity 60 → signal on hover). Desktop: the four icons in a column as tall as the photo, spread along it, left of it; the photo's bottom meets the links' underline (`--link-inset`, 10px: the 44px link box reaches below the text; measured within 2px at 1024/1440/1920) and the hero still fits 100svh. Mobile: name → statement → photo (96px) → intro → icons in a row. Behind it all, `HeroSpotlight` (fine pointer + motion only): a soft light under the pointer that reveals a fine dot grid only inside it (Iury, 2026-11-13; the one grid allowed, as atmosphere, never as structure). One 560px layer moved by transform, the dots held still by the opposite background-position; one rAF per pointer move, no loop (4× CPU: steady 30 fps, no frame > 50 ms). The statement is Satoshi 500 (not italic); mobile (< 768px) puts it under the name, left-aligned, with the cat at the row's end, and it does not fade there. Glyphs rise and the ligature draws (clip rect height) only under `.js` + motion, with the 3s failsafe. Share images: `node scripts/og.cjs` → `public/og-image-{pt,en}.png` after a lettering or copy change.
 - **Copy:** short sentences, plain words, no em-dashes in UI copy (use a full stop, a comma or `·`). `npm run copy:check` counts em-dashes (fails above 3) and lists sentences over 24 words. Iury's own words (the Koinonia lesson) stay verbatim.
 - **Cursor** (`components/layout/Cursor.tsx`): one 8px dot exactly on the pointer (no ring, no lag, no I-beam over text: Iury found it noisy); 18px over links and buttons, a small label pill beside it for `data-cursor-label`. Mounts only on `(hover: hover) and (pointer: fine)`; `pointer-events: none`, `aria-hidden`; form fields keep the native cursor. Opt in with `data-cursor-label="…"` (labels in `messages → cursor`) or `data-cursor="none"` for elements that draw their own pointer. Never use it to carry information that is not also in the page. Its two layers are `popover="manual"` elements in the top layer, re-raised (hide/show) whenever a `<dialog>` opens, so the dot stays the cursor inside modal panels too (Iury, 2026-11-12). Never put `data-cursor="none"` on something that does not draw its own pointer.
 - **Section titles:** `data-split` makes a title rise word by word on first view (SplitText, no line masks). Skipped above the fold, for headings with a `highlight`, and with reduced motion.
